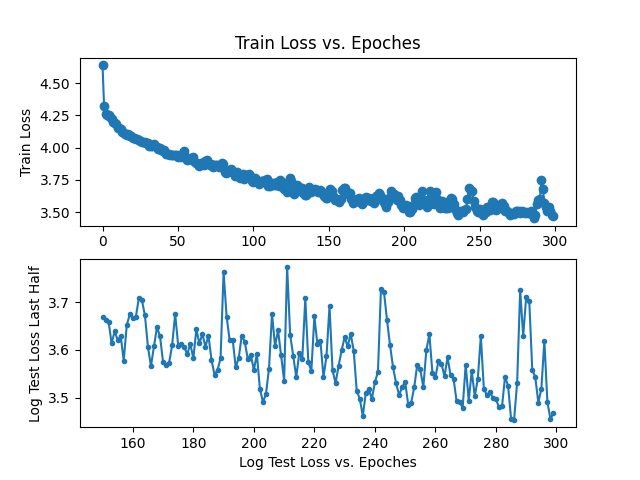
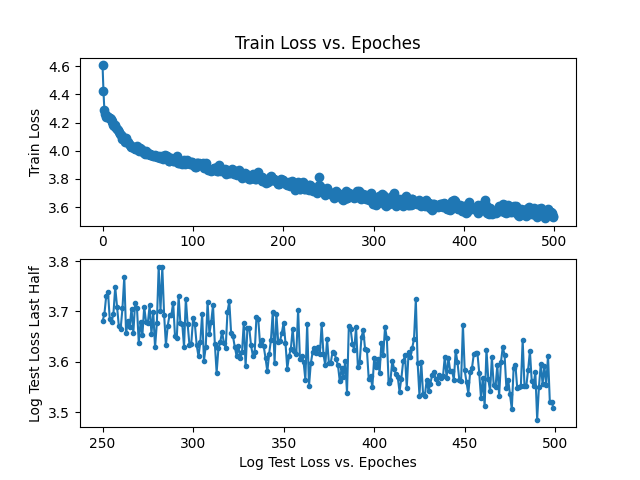
* use nerf-like network for nn imposter

diff --git a/hou/nn_imposter_train.py b/hou/nn_imposter_train.py
@@ -11,11 +11,12 @@ import tqdm
 from utils.loader import collect_3d_imposter_images, prepare_3d_imposter_train_dataloader
 from utils.nets import ImposterNN
 
-# collect_images()
+RES = 128
+collect_3d_imposter_images(filename='export/3_impostor_sh_N.png', frame_res=RES)
 
 device = torch.device("cuda:0")
 BATCH_SIZE = 10
-TRAIN_EPOCHS = 300
+TRAIN_EPOCHS = 100
 
 train_loader, test_loader = prepare_3d_imposter_train_dataloader(batch_size=BATCH_SIZE)
 
@@ -67,8 +68,9 @@ def plot(train_loss, test_loss, save_name):
 def train(model, save_name):
     train_loss = []
     test_loss = []
+    model.load_state_dict(torch.load('model/' + save_name + ".pth"))
     model = model.to(device)
-    optimizer = optim.Adam(model.parameters(), lr=5e-3, betas=(0.9, 0.999))
+    optimizer = optim.Adam(model.parameters(), lr=5e-5, betas=(0.9, 0.999))
     loop = tqdm.tqdm(range(TRAIN_EPOCHS))
     for epoch in loop:
         train_loss.append(train_epoch(epoch, model, optimizer))
@@ -83,7 +85,7 @@ def test(model, saved_name):
     test_epoch(0, model)
 
 def train_all():
-    model = ImposterNN()
+    model = ImposterNN(RES=RES)
     train(model, "imposternn")
 
 if __name__ == "__main__":

diff --git a/hou/nn_imposter_plot.py b/hou/nn_imposter_plot.py
@@ -22,7 +22,7 @@ loss_fn = torch.nn.MSELoss(reduction='sum')
 def render_by_angle(model, theta, phi):
     with torch.no_grad():
         coords = torch.Tensor([theta, phi]).to(device)
-        pred_colors = model(coords)
+        pred_colors = model(coords.unsqueeze(0))
     pred_colors = pred_colors.cpu()
     return pred_colors
 
